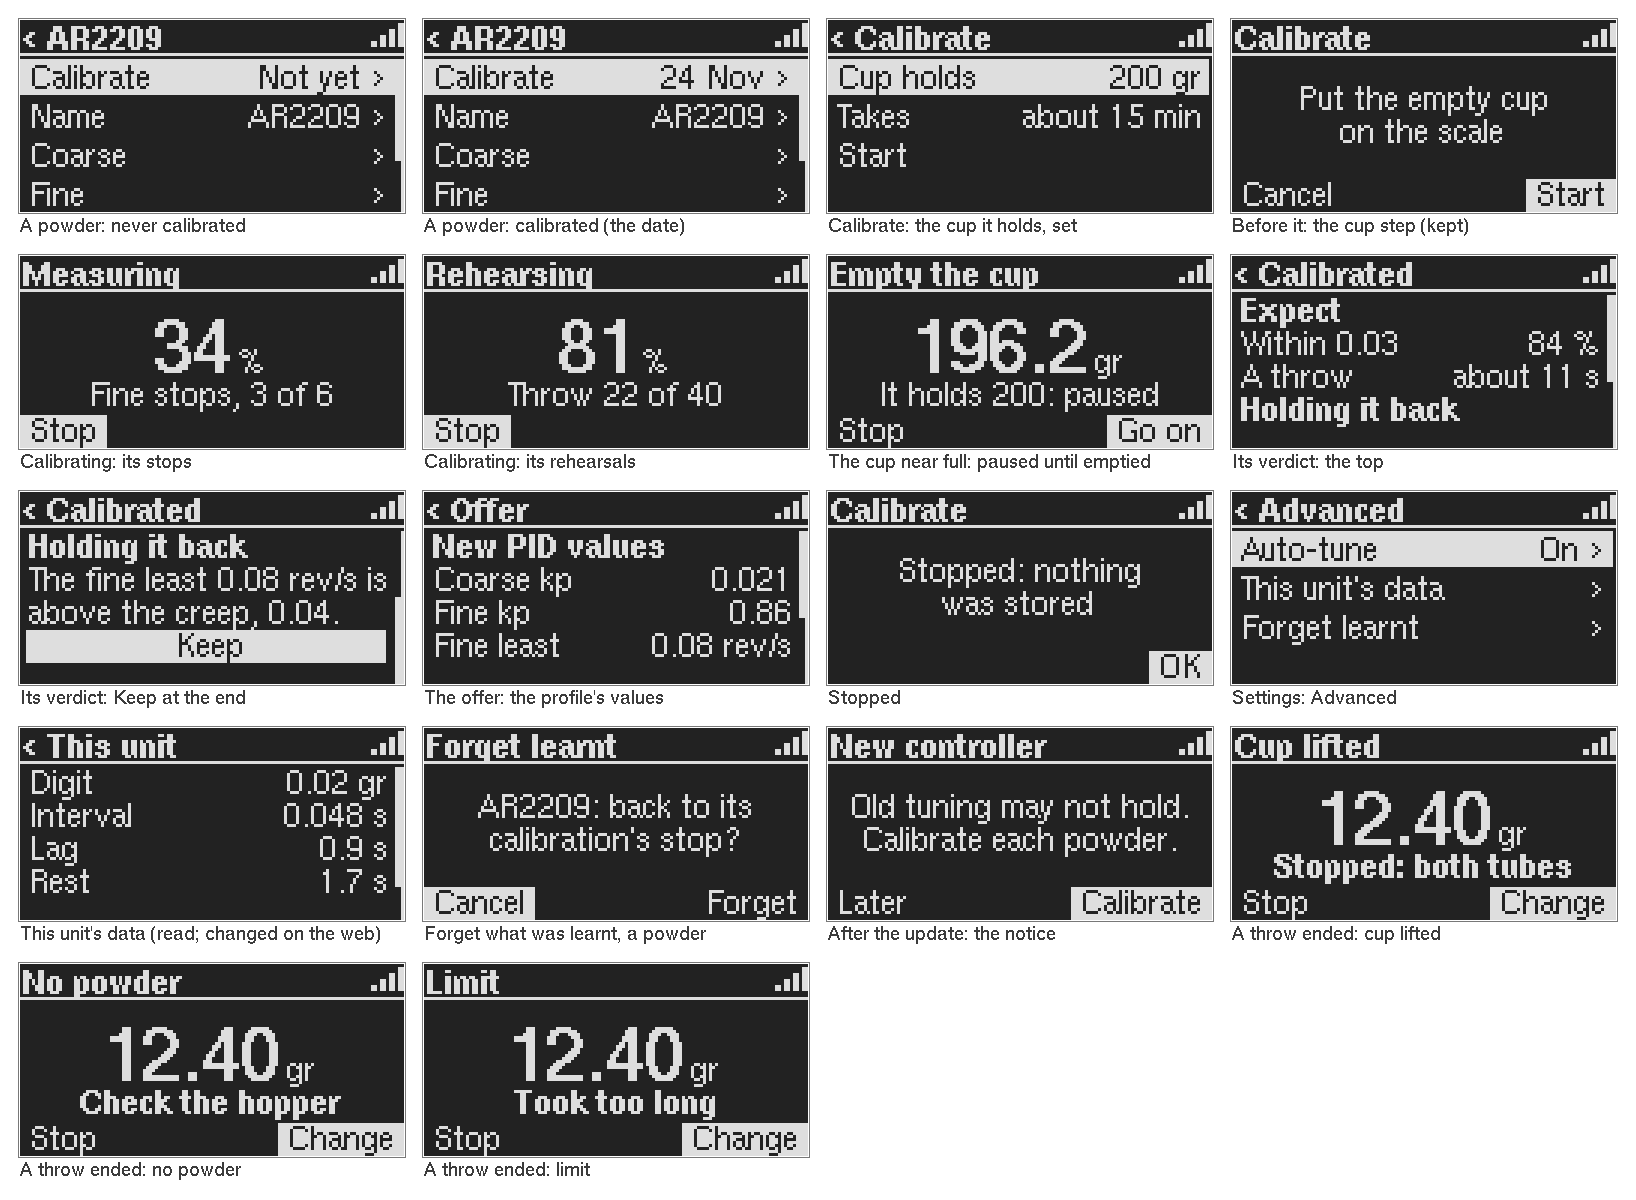
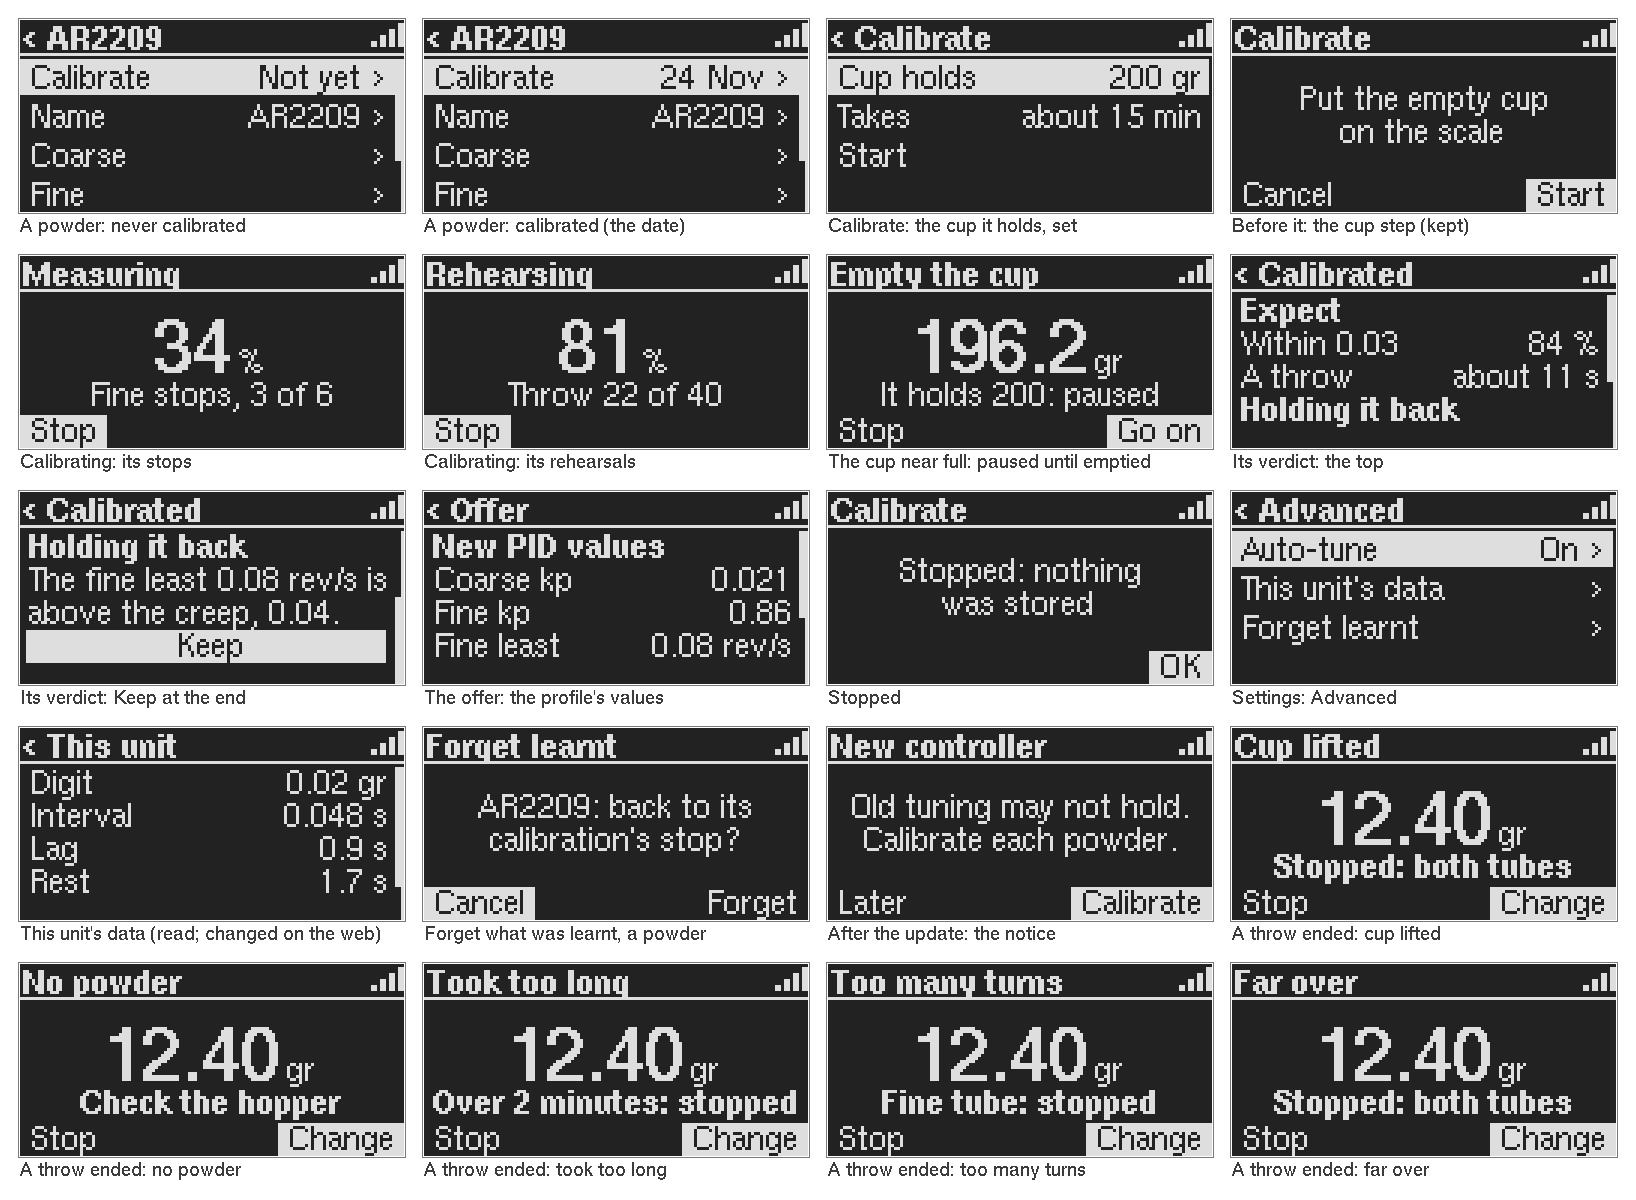
ADR-009 gate 4: each limit named by its own cause on the 12864 sheet; the owner's notes beside it

Changed region(s): [[0.2494, 0.8017, 0.9976, 0.9867], [0.2494, 0.8017, 0.4053, 0.8325], [0.3429, 0.9558, 0.4053, 0.9867]]

diff --git a/tools/ui_mock/calibration_12864.py b/tools/ui_mock/calibration_12864.py
@@ -109,8 +109,11 @@ def screens():
     add(p, "After the update: the notice")
 
     # A throw's new ends (not a verdict)
+    # each limit by its own cause: a screen never names a cause that did not happen (C18 the throw's time, C19 the fine
+    # tube's turns, C20 a reading far over)
     for status, line in (("Cup lifted", "Stopped: both tubes"), ("No powder", "Check the hopper"),
-                         ("Limit", "Took too long")):
+                         ("Took too long", "Over 2 minutes: stopped"), ("Too many turns", "Fine tube: stopped"),
+                         ("Far over", "Stopped: both tubes")):
         p = Panel(); m.title(p, status)
         m.figure(p, "12.40", "gr"); m.context(p, line, bold=True)
         m.softkeys(p, "Stop", "Change")

diff --git a/docs/developments_plans/ADR-009-controller_and_tuning/progress.md b/docs/developments_plans/ADR-009-controller_and_tuning/progress.md
@@ -3174,3 +3174,9 @@ Checked against the skill:
 
 **Found by the check and mended: D1's removal could divide by zero.** The creep is the band's flow at the slowest stop's lag. A stop whose powder showed at once measures a lag of 0, which D1's 0.3 s floor had covered. In the C that made the creep infinite and so the fastest stop's speed, silently; in the reference it raised.
 - **Mended in both:** the creep is taken at the slowest stop that measured a lag above zero; with none, its least share of the slowest speed (D2, a bound already there).
+
+**The 12864 sheet mended** (the manager's review, 02:3x relayed):
+- **A limit names its own cause:** "Took too long" (C18, the throw's time), "Too many turns" (C19, the fine tube's turns), "Far over" (C20, a reading far over). Each is a job screen with the weight and a line; none says a cause that did not happen. The firmware's result is one word, "limit", for all three today; the reason each screen needs is gate 5's to carry (a throw's `ended` reason).
+- **Notes for the owner, beside the sheet:**
+  - "Cup holds 200 gr" and "Empty the cup" draw sign-off item 17, the cup's capacity, which is last before the Pico W: drawn now, not built.
+  - "This unit" shows one lag; with L the scale's lag is a dead time and one or two stages, fitted for each stop. At gate 5 the row becomes "Dead time" and "Settles", the stages' sum, with each stop's own on the web.
